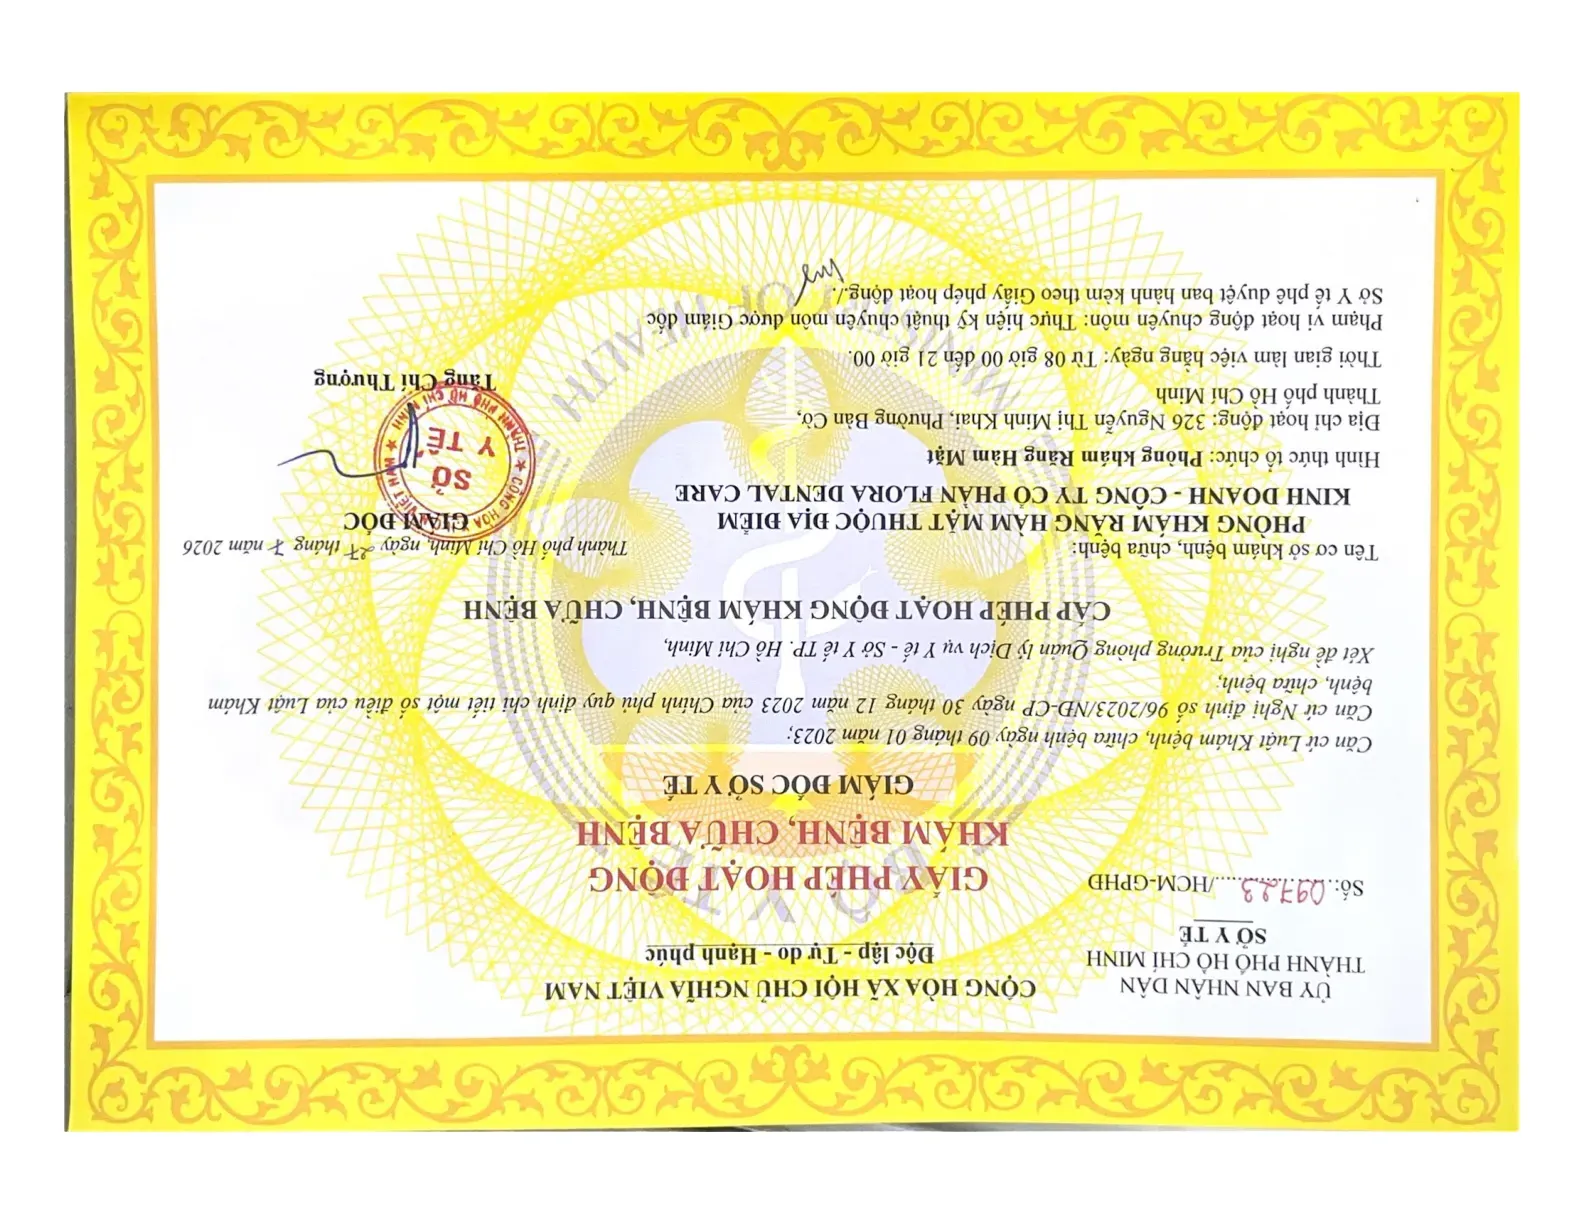
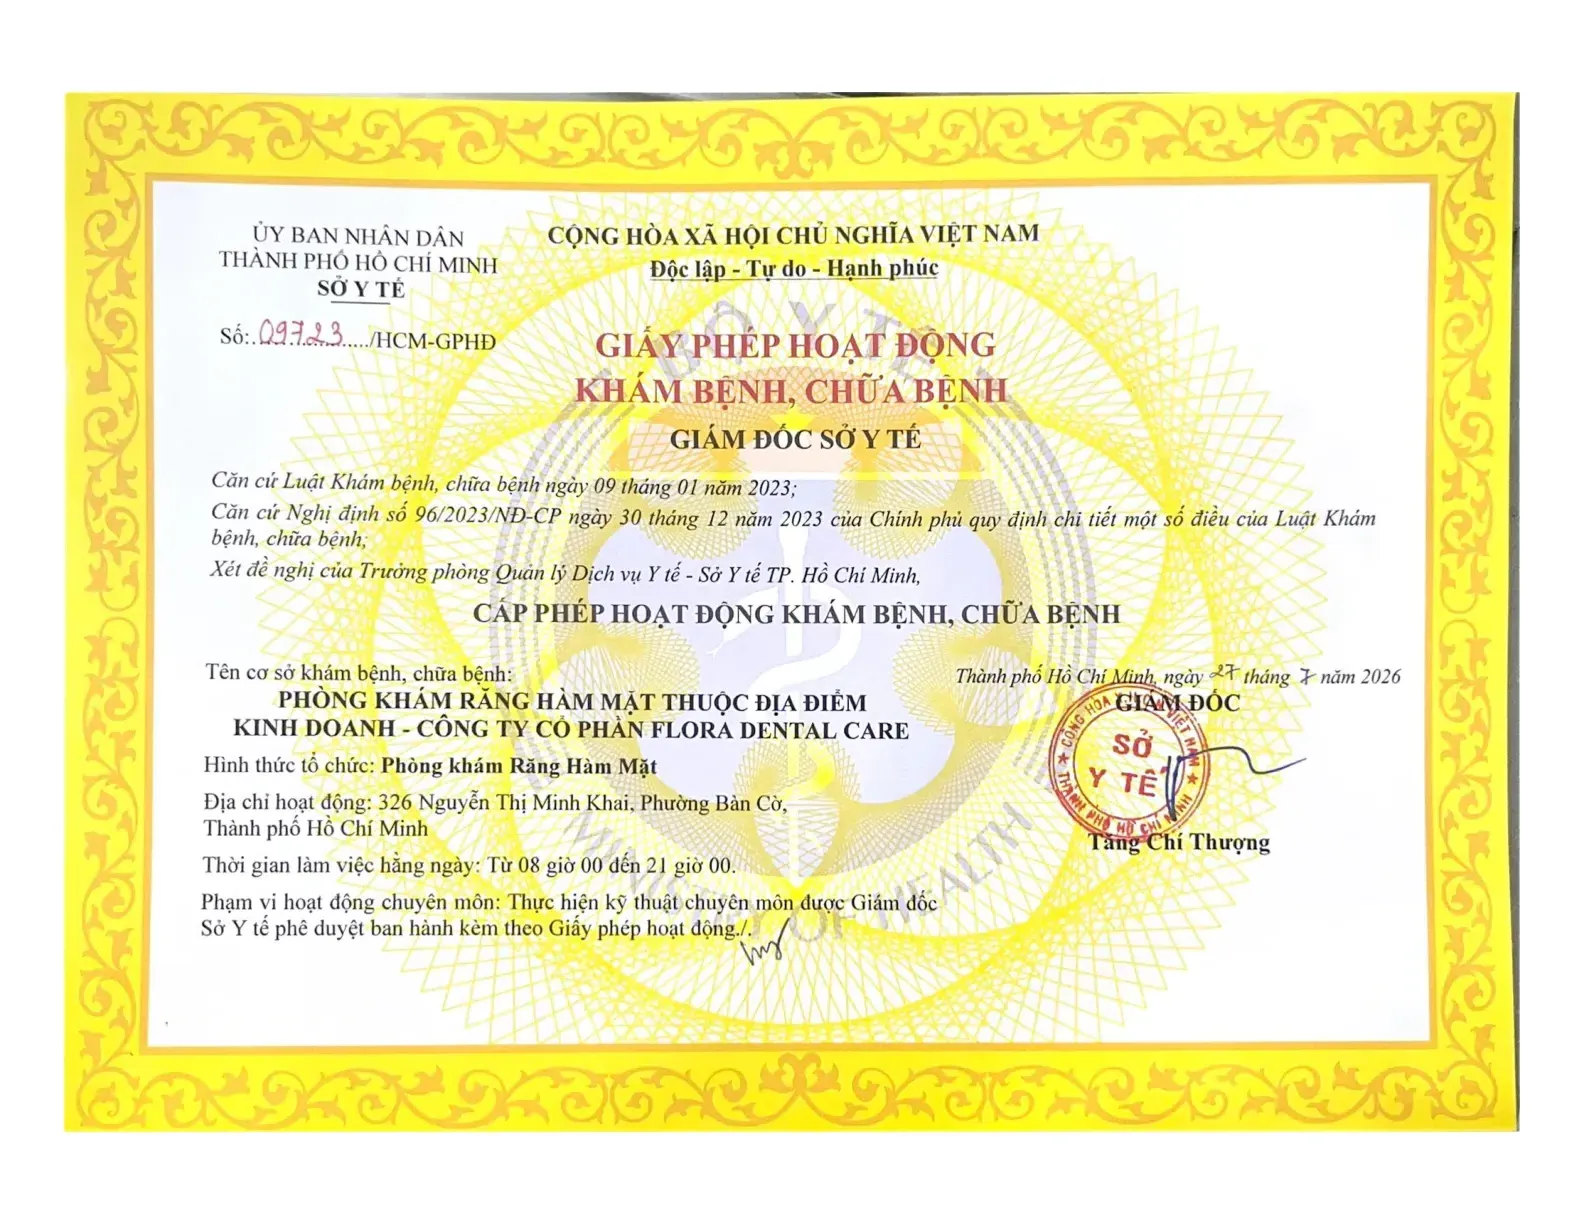
fix: layout 5 certificates in one row, remove title texts, and flip 3rd certificate (cert_5) 180 degrees to show correctly

diff --git a/index.html b/index.html
@@ -1200,35 +1200,30 @@
                     <div class="cert-img-wrapper">
                         <img src="assets/homepage/certifications/cert_3.webp" alt="Chứng chỉ Y khoa Flora 3" loading="lazy" />
                     </div>
-                    <div class="cert-title">Chứng Nhận Hệ Thống Quản Lý Chất Lượng</div>
                 </div>
                 <!-- Cert 4 -->
                 <div class="cert-card" onclick="openCertLightbox('assets/homepage/certifications/cert_4.webp')">
                     <div class="cert-img-wrapper">
                         <img src="assets/homepage/certifications/cert_4.webp" alt="Chứng chỉ Y khoa Flora 4" loading="lazy" />
                     </div>
-                    <div class="cert-title">Chứng Nhận Đào Tạo Straumann Swiss</div>
                 </div>
                 <!-- Cert 5 -->
                 <div class="cert-card" onclick="openCertLightbox('assets/homepage/certifications/cert_5.webp')">
                     <div class="cert-img-wrapper">
                         <img src="assets/homepage/certifications/cert_5.webp" alt="Chứng chỉ Y khoa Flora 5" loading="lazy" />
                     </div>
-                    <div class="cert-title">Chứng Nhận Bác Sĩ Cấp Cao Invisalign</div>
                 </div>
                 <!-- Cert 6 -->
                 <div class="cert-card" onclick="openCertLightbox('assets/homepage/certifications/cert_6.webp')">
                     <div class="cert-img-wrapper">
                         <img src="assets/homepage/certifications/cert_6.webp" alt="Chứng chỉ Y khoa Flora 6" loading="lazy" />
                     </div>
-                    <div class="cert-title">Thành Viên Hiệp Hội Implant Quốc Tế ITI</div>
                 </div>
                 <!-- Cert 7 -->
                 <div class="cert-card" onclick="openCertLightbox('assets/homepage/certifications/cert_7.webp')">
                     <div class="cert-img-wrapper">
                         <img src="assets/homepage/certifications/cert_7.webp" alt="Chứng chỉ Y khoa Flora 7" loading="lazy" />
                     </div>
-                    <div class="cert-title">Giấy Phép Hoạt Động Sở Y Tế</div>
                 </div>
             </div>
         </div>

diff --git a/css/flora-style.css b/css/flora-style.css
@@ -7362,12 +7362,12 @@ input[type="range"]#calc-qty::-moz-range-thumb:hover {
     margin-top: 40px;
 }
 .cert-card {
-    flex: 0 1 calc(25% - 18px);
-    min-width: 250px;
+    flex: 0 1 calc(20% - 20px);
+    min-width: 170px;
     background: var(--clr-white);
     border: 1px solid var(--clr-border);
     border-radius: var(--radius-sm);
-    padding: 16px;
+    padding: 10px;
     box-shadow: var(--shadow);
     transition: all 0.3s ease;
     cursor: pointer;
@@ -7379,7 +7379,7 @@ input[type="range"]#calc-qty::-moz-range-thumb:hover {
 }
 .cert-img-wrapper {
     width: 100%;
-    height: 340px;
+    height: 260px;
     border-radius: 4px;
     overflow: hidden;
     background: #f8fafc;
@@ -7407,16 +7407,28 @@ input[type="range"]#calc-qty::-moz-range-thumb:hover {
 @media (max-width: 992px) {
     .cert-card {
         flex: 0 1 calc(33.33% - 16px);
+        min-width: 200px;
+    }
+    .cert-img-wrapper {
+        height: 280px;
     }
 }
 @media (max-width: 768px) {
     .cert-card {
         flex: 0 1 calc(50% - 12px);
+        min-width: 180px;
+    }
+    .cert-img-wrapper {
+        height: 260px;
     }
 }
 @media (max-width: 480px) {
     .cert-card {
         flex: 0 1 100%;
+        min-width: 100%;
+    }
+    .cert-img-wrapper {
+        height: 280px;
     }
 }
 
